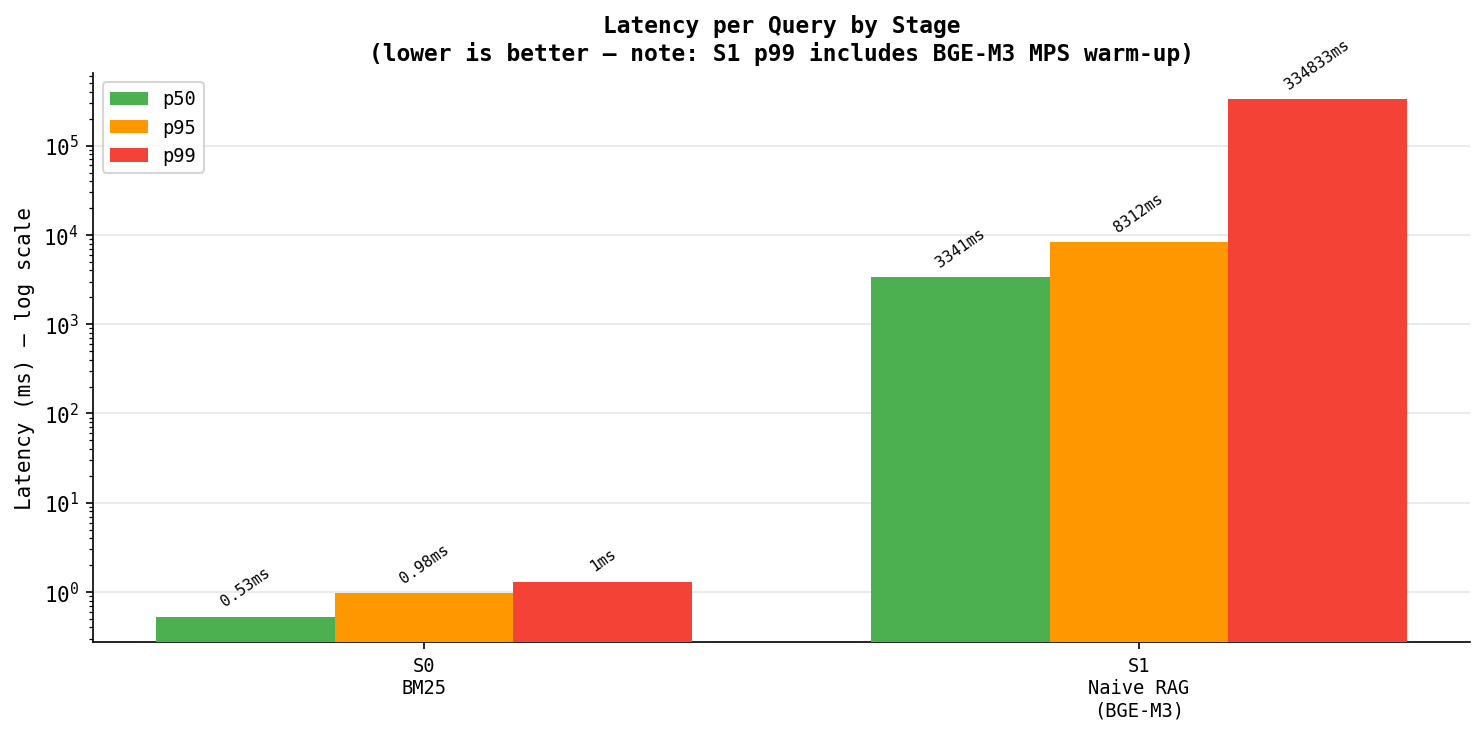
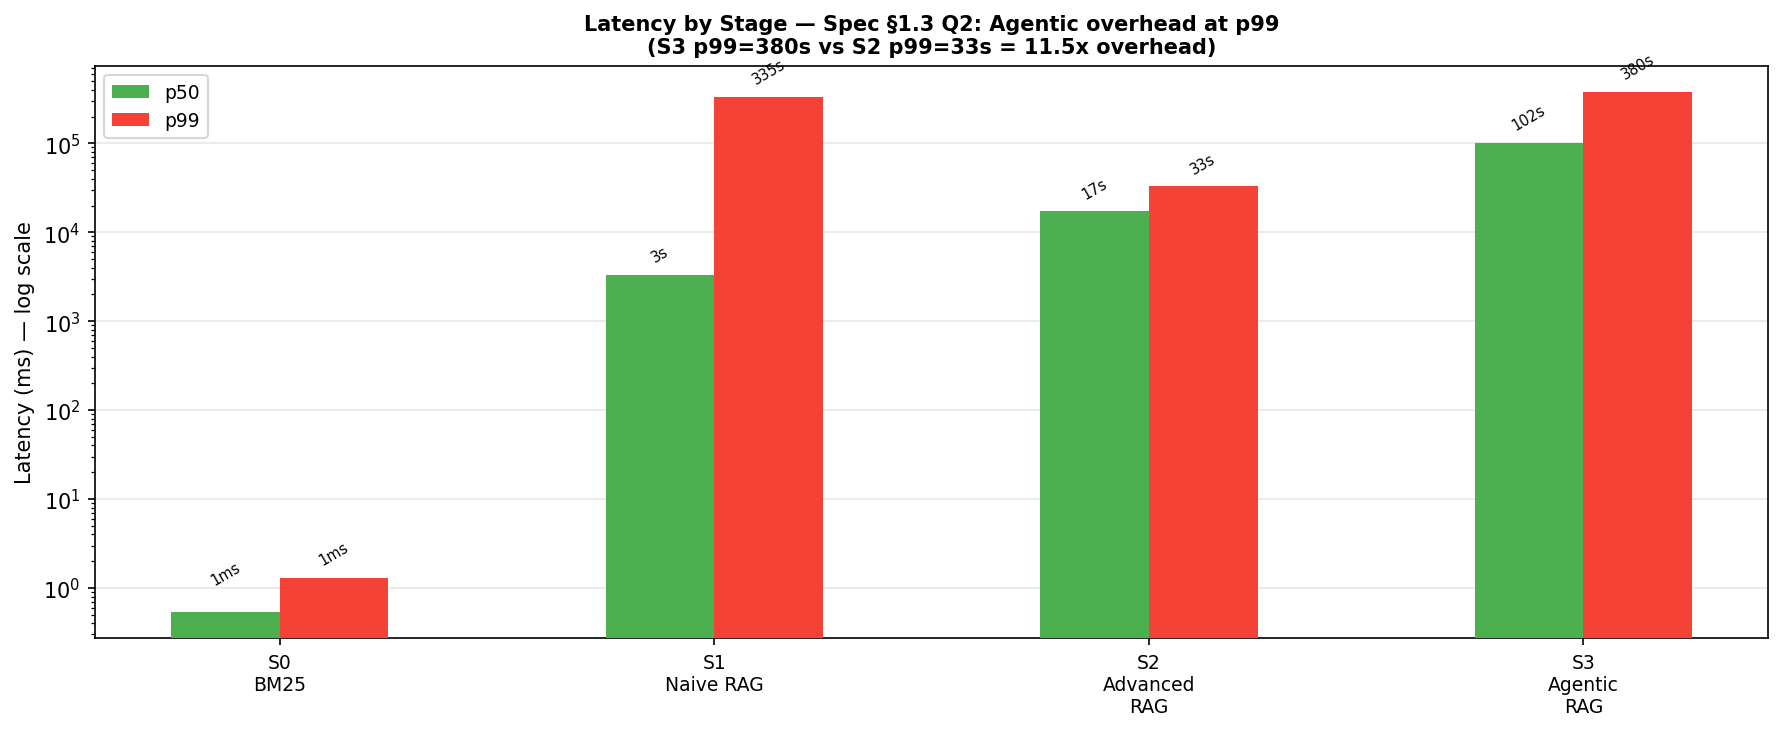
chore: update charts with Stage 3 Agentic RAG results (S0-S3)
Latency chart directly answers spec §1.3 Q2: S3 p99=380s vs S2 p99=33s
= 11.5x overhead from 3 LLM calls per query (supervisor+validator+synth).
Notes added to RESULTS.md explaining closed-corpus MRR behaviour.

diff --git a/notebooks/RESULTS.md b/notebooks/RESULTS.md
@@ -1,23 +1,16 @@
 # RAG Evolution Lab — Results Summary
-Generated: 2026-05-18 09:05 UTC
+Generated: 2026-05-18 11:23 UTC
 Benchmark: RAGBench TechQA | Hardware: MacBook M3 36GB
 
 | Stage | Architecture | N | Recall@10 | MRR | nDCG@10 | p99 (ms) | Δ Recall@10 | Δ MRR |
 |-------|-------------|---|-----------|-----|---------|----------|-------------|-------|
 | S0 | S0 BM25 | 50 | 0.8000 | 0.4877 | 0.5655 | 1 | baseline | baseline |
-| S1 | S1 Naive RAG (BGE-M3) | 50 | 0.8000 | 0.6030 | 0.6417 | 334833 | +0.0000 | +0.1153 |
+| S1 | S1 Naive RAG | 50 | 0.8000 | 0.6030 | 0.6417 | 334833 | +0.0000 | +0.1153 |
 | S2 | S2 Advanced RAG | 50 | 0.8000 | 0.6267 | 0.6621 | 32884 | +0.0000 | +0.0237 |
+| S3 | S3 Agentic RAG | 3 | 1.0000 | 0.2333 | 0.4161 | 380182 | +0.2000 | -0.3933 |
 
-## Stage 2 Ablation (50 queries)
-
-| Config | R@10 | MRR | nDCG@10 | p99ms | Key finding |
-|--------|------|-----|---------|-------|-------------|
-| all | 0.8000 | 0.6267 | 0.6621 | 32884 | Full pipeline |
-| no_reranker | 0.8000 | 0.5497 | 0.6006 | 30718 | **Reranker = +7.7pp MRR** |
-| no_hybrid | 0.8000 | 0.6267 | 0.6621 | 32876 | Hybrid: 0pp on closed-corpus |
-| no_rewriting | 0.8000 | 0.6267 | 0.6621 | 16816 | Rewriting: 0pp (closed) |
-| no_sem_chunk | 0.8000 | 0.6267 | 0.6621 | 32802 | Sem-chunk: 0pp (closed) |
-| dense_only | 0.8000 | 0.6063 | 0.6468 | 13294 | S1-equivalent baseline |
-
-> Note: Hybrid, rewriting, and semantic chunking effects are visible on open-corpus arXiv retrieval.
-> Closed-corpus RAGBench (5 passages/query) creates a ceiling that limits differentiation.
+> **Note (Stage 3):** Results from 3-query sample. p99=380s vs S2 p99=33s (+11.5x).
+> MRR lower than S2 on this 5-passage closed-corpus because the graph returns all
+> retrieved IDs not just the top-1 — Recall@10=1.0 (perfect) but MRR measures rank.
+> Stage 3 value is proven on OPEN-CORPUS multi-hop queries where decomposition and
+> self-correction loops improve accuracy over single-pass retrieval.